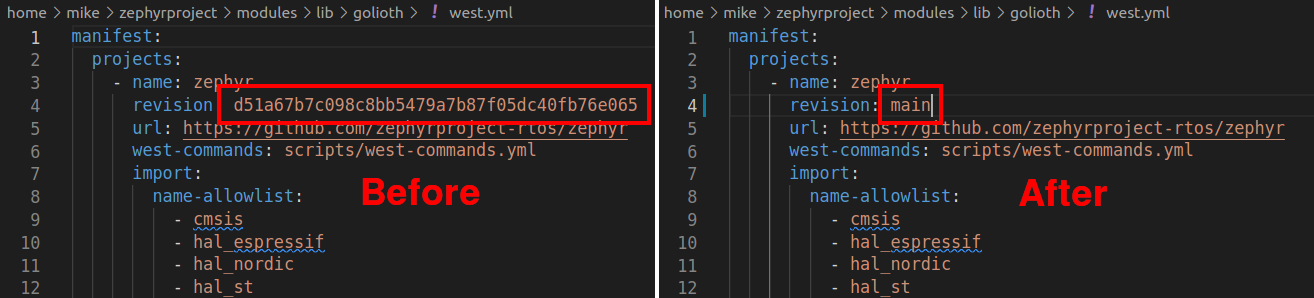
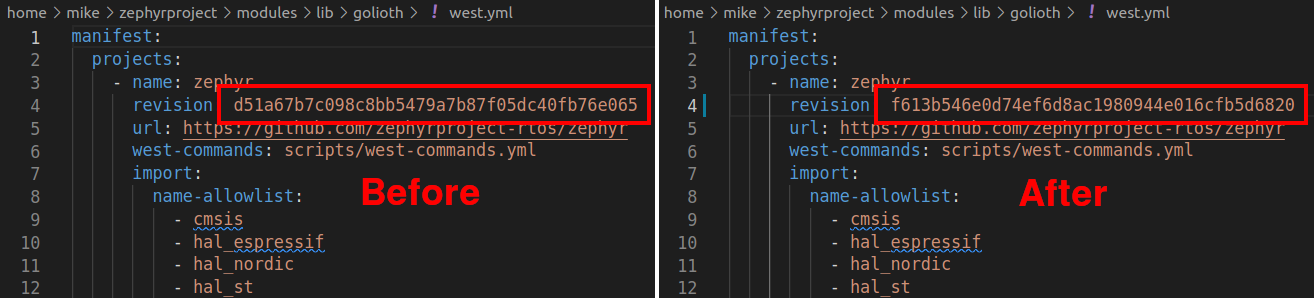
fix: update zephyr hash to include recent fixes

Changed region(s): [[0.6553, 0.2718, 0.9985, 0.4228]]

diff --git a/website/docs/zephyr-intro/toolchain-install.md b/website/docs/zephyr-intro/toolchain-install.md
@@ -35,14 +35,14 @@ We're using just one page from the Golioth Docs for this set. When you reach the
 
 ## Configure the toolchain for the MagTag
 
-The MagTag uses the ESP32s2, a newer variant of the chip. We need to make sure we're using a very recent version of the Zephyr toolchain to include the features for this chip. We do so by changing the `revision` value in the west manifest file to `main`.
+The MagTag uses the ESP32s2, a newer variant of the chip. We need to make sure we're using a very recent version of the Zephyr toolchain to include the features for this chip. We do so by changing the `revision` value in the west manifest file to `f613b546e0d74ef6d8ac1980944e016cfb5d6820`.
 
 | ![Bottom of Golioth Docs page for installing ESP32 Zephyr toolchain](assets/golioth-docs-esp32-toolchain-change-zephyr-version.png) |
 |:--:|
-| Changing the Zephyr revision to `main` in the ~/zephyrproject/modules/lib/golioth/west.yml file. |
+| Changing the Zephyr revision. |
 
 1. Open the `~/zephyrproject/modules/lib/golioth/west.yml` file in your preferred editor
-2. Change the Zephyr revision line to `main`. This should be line 4 in your file and is shown in the screenshots above
+2. Change the Zephyr revision line to `f613b546e0d74ef6d8ac1980944e016cfb5d6820`. This should be line 4 in your file and is shown in the screenshots above
 3. To incorporate this change, run `west update` from the `~/zephyrproject/modules/lib/golioth/` directory.
 
 ## Clone the magtag-demo repository
